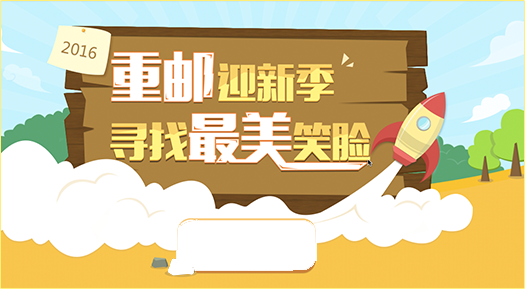
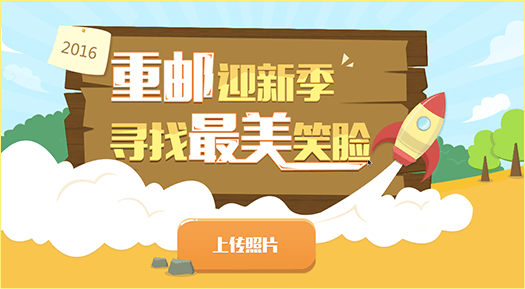
modified some details

Changed region(s): [[0.3048, 0.7474, 0.6095, 0.9654]]

diff --git a/html/help.html b/html/help.html
@@ -107,35 +107,37 @@
                     <span class="title-questioner">提问者</span>
                     <span class="title-ask-time">提问时间</span>
                 </div>
-                <div class="questions" id="questions-1">
-                    <span class="question-con">1、5、6栋学生公寓好吗？有空调吗？</span>
-                    <span class="questioner">许一</span>
-                    <span class="ask-time">2016\8\20</span>
-                </div>
-                <div class="questions" id="questions-2">
-                    <span class="question-con">请问学长哪个食堂最好吃？</span>
-                    <span class="questioner">许一</span>
-                    <span class="ask-time">2016\8\20</span>
-                </div>
-                <div class="questions" id="questions-3">
-                    <span class="question-con">有北京的学姐吗，请问平时都是怎么坐车回家的？</span>
-                    <span class="questioner">许一</span>
-                    <span class="ask-time">2016\8\20</span>
-                </div>
-                <div class="questions" id="questions-4">
-                    <span class="question-con">学校周边都有什么吃的呀。。。。。</span>
-                    <span class="questioner">许一</span>
-                    <span class="ask-time">2016\8\20</span>
-                </div>
-                <div class="questions" id="questions-5">
-                    <span class="question-con">想问一下都是住的6人间吗，有没有4人间的，想换下寝室可以吗？</span>
-                    <span class="questioner">许一</span>
-                    <span class="ask-time">2016\8\20</span>
-                </div>
-                <div class="questions" id="questions-6">
-                    <span class="question-con">想问一下都是住的6人间吗，有没有4人间的，想换下寝室可以吗？</span>
-                    <span class="questioner">许一</span>
-                    <span class="ask-time">2016\8\20</span>
+                <div class="question-content">
+                     <div class="questions">
+                         <span class="question-con">1、5、6栋学生公寓好吗？有空调吗？</span>
+                         <span class="questioner">许一</span>
+                         <span class="ask-time">2016\8\20</span>
+                     </div>
+                     <div class="questions">
+                         <span class="question-con">请问学长哪个食堂最好吃？</span>
+                         <span class="questioner">许一</span>
+                         <span class="ask-time">2016\8\20</span>
+                     </div>
+                     <div class="questions">
+                         <span class="question-con">有北京的学姐吗，请问平时都是怎么坐车回家的？</span>
+                         <span class="questioner">许一</span>
+                         <span class="ask-time">2016\8\20</span>
+                     </div>
+                     <div class="questions">
+                         <span class="question-con">学校周边都有什么吃的呀。。。。。</span>
+                         <span class="questioner">许一</span>
+                         <span class="ask-time">2016\8\20</span>
+                     </div>
+                     <div class="questions">
+                         <span class="question-con">想问一下都是住的6人间吗，有没有4人间的，想换下寝室可以吗？</span>
+                         <span class="questioner">许一</span>
+                         <span class="ask-time">2016\8\20</span>
+                     </div>
+                     <div class="questions">
+                         <span class="question-con">想问一下都是住的6人间吗，有没有4人间的，想换下寝室可以吗？</span>
+                         <span class="questioner">许一</span>
+                         <span class="ask-time">2016\8\20</span>
+                     </div>
                 </div>
             </div><!-- end question-list --> 
             <div class="seniors">

diff --git a/less/help.less b/less/help.less
@@ -118,46 +118,34 @@ body {
         }
     }
 }
-.questions {
+.question-content {
     position: absolute;
-    left: 21px;
-    width: 870px;
-    height: 42px;
-    line-height: 42px;
-    font-size: 14px;
-    color: #b58043;
-    .question-con {
-        float: left;
-        display: block;
-        width: 633px;
-    }
-    .questioner {
-        width: 80px;
-        margin-right: 78px;
-    }
-    .ask-time {
-        float: right;        
-        width: 80px;
-    }
-}
-#questions-1 {
     top: 47px;
+    width: 914px;
+    height: 287px;
+    .questions {
+        margin-left: 21px;
+        width: 870px;
+        height: 42px;
+        line-height: 42px;
+        font-size: 14px;
+        color: #b58043;
+        .question-con {
+             float: left;
+            display: block;
+            width: 633px;
+        }
+        .questioner {
+            width: 80px;
+            margin-right: 78px;
+        }
+        .ask-time {
+            float: right;        
+            width: 80px;
+        }
+    } 
 }
-#questions-2 {
-    top: 47+42px;
-}
-#questions-3 {
-    top: 47+42*2px;
-}
-#questions-4 {
-    top: 47+42*3px;
-}
-#questions-5 {
-    top: 47+42*4px;
-}
-#questions-6 {
-    top: 47+42*5px;
-}
+
 //seniors
 .seniors {
     position: absolute;

diff --git a/css/help.css b/css/help.css
@@ -117,45 +117,32 @@ body {
 #life-content .questions-title .title-ask-time {
   float: right;
 }
-.questions {
+.question-content {
   position: absolute;
-  left: 21px;
+  top: 47px;
+  width: 914px;
+  height: 287px;
+}
+.question-content .questions {
+  margin-left: 21px;
   width: 870px;
   height: 42px;
   line-height: 42px;
   font-size: 14px;
   color: #b58043;
 }
-.questions .question-con {
+.question-content .questions .question-con {
   float: left;
   display: block;
   width: 633px;
 }
-.questions .questioner {
+.question-content .questions .questioner {
   width: 80px;
   margin-right: 78px;
 }
-.questions .ask-time {
+.question-content .questions .ask-time {
   float: right;
   width: 80px;
-}
-#questions-1 {
-  top: 47px;
-}
-#questions-2 {
-  top: 89px;
-}
-#questions-3 {
-  top: 131px;
-}
-#questions-4 {
-  top: 173px;
-}
-#questions-5 {
-  top: 215px;
-}
-#questions-6 {
-  top: 257px;
 }
 .seniors {
   position: absolute;

diff --git a/less/activity.less b/less/activity.less
@@ -99,16 +99,9 @@ body {
         width: 527px;
         height: 290px;
         z-index: 11;
-        #uploadBtn {
-            position: absolute;
-            top: 220px;
-            right: 213px;
-            cursor: pointer;
-            z-index: 12;
-        }
         div {
             position: absolute;
-            bottom: 1px;
+            bottom: 2px;
             width: 523px;
             height: 37px;
             background-color: #474444;
@@ -124,6 +117,7 @@ body {
             text-align: center;
             color: #d2bd7d;
             z-index: 14;
+            cursor: pointer;
         }
     }
 }

diff --git a/css/activity.css b/css/activity.css
@@ -99,16 +99,9 @@ body {
   height: 290px;
   z-index: 11;
 }
-.smile-content .smile-game #uploadBtn {
-  position: absolute;
-  top: 220px;
-  right: 213px;
-  cursor: pointer;
-  z-index: 12;
-}
 .smile-content .smile-game div {
   position: absolute;
-  bottom: 1px;
+  bottom: 2px;
   width: 523px;
   height: 37px;
   background-color: #474444;
@@ -124,6 +117,7 @@ body {
   text-align: center;
   color: #d2bd7d;
   z-index: 14;
+  cursor: pointer;
 }
 .smile-acti-content {
   position: absolute;

diff --git a/html/activity.html b/html/activity.html
@@ -91,7 +91,6 @@
             <img src="../image/branch_4/acti_content_bg.png" alt=""> 
             <div class="smile-game">
                 <img src="../image/branch_4/smile.png" alt="">
-                <img src="../image/branch_4/upload.png" alt="" id="uploadBtn">
                 <div></div>
                 <p>点击前往 “笑脸迎新—晒晒录取通知书”  </p>
             </div>
